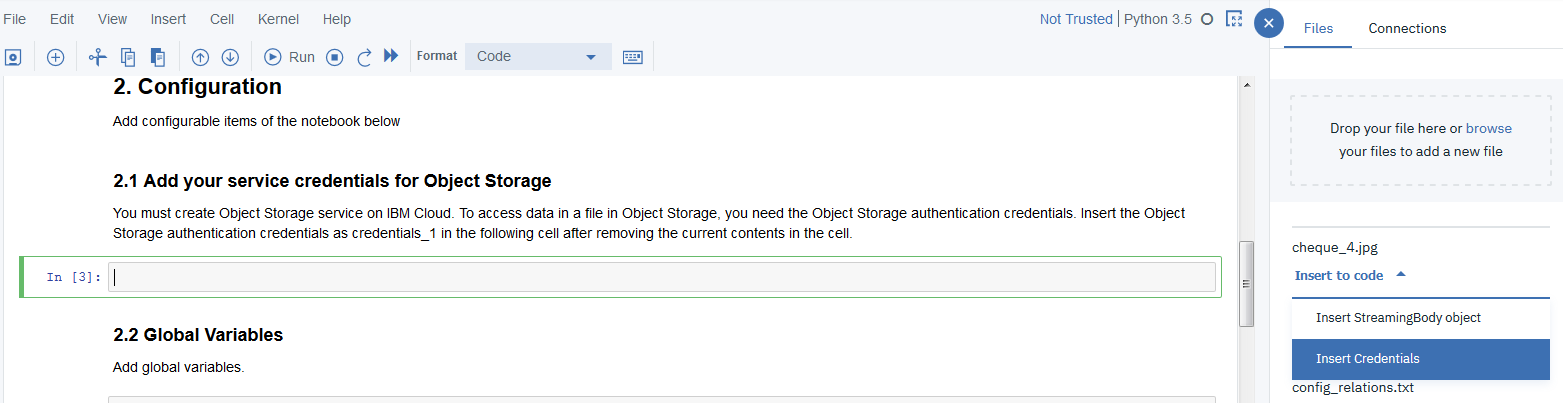
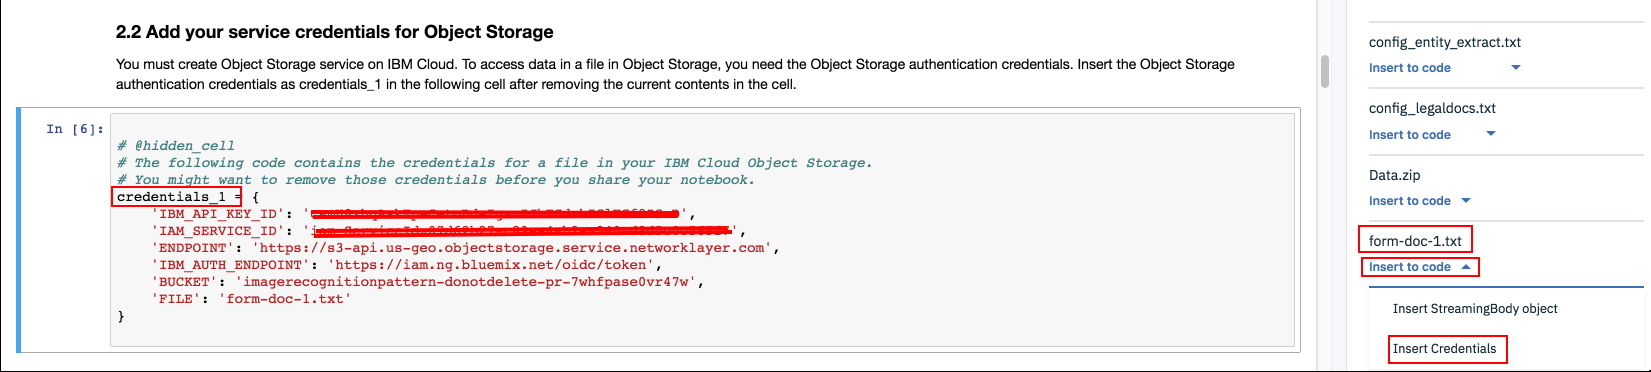
improve documentation

diff --git a/README.md b/README.md
@@ -65,13 +65,13 @@ Classify images using [Image Classification Using CNN and Keras](https://github.
 
 ## 3. Text Extraction Using Optical Character Recognition
 
-[Previous section](#2-classification-of-image-documents) identified application form document among the list of all image documents. This section extracts text from the application form document that was identified in the above section. The text is then saved as text document on to Object Storage.
+[Previous section](#2-classification-of-image-documents) identified application form document among the list of all image documents. This section extracts text from the application form document that was identified in the above section. The text is then saved as text document on to Object Storage, that was created in [Part1](https://github.com/IBM/image-classification-using-cnn-and-keras) of this code pattern.
 
 We will use tesseract OCR for text extraction. We need to install tesseract engine on our local machine. And so we will run the next notebook on local.  
 * [Install Tesseract OCR](https://github.com/tesseract-ocr/tesseract/wiki). Follow the instructions according to your system specifications
 * To run the notebook locally, we will install Jupyter notebook on local. Refer [this link](http://jupyter.readthedocs.io/en/latest/install.html) for Jupyter installation instructions
 * Download `Convert_Image_to_Text.ipynb` from repo https://github.com/IBM/image-recognition-and-information-extraction-from-image-documents/blob/master/notebooks/ and open it in Jupyter notebook on local machine
-* In the notebook, under section 2.1, update the path of the form document. The form document was identified by the previous notebook run.
+* In the notebook, under section 2.1, update the path of the form document. The form document was identified by the [step](#2-classification-of-image-documents).
 
 ![](images/analyze_res1.png)
 
@@ -84,12 +84,23 @@ Update the path of `credentials.json` file in `2.2 Connect to Object Storage` of
 
 Run the notebook by clicking on `Cell`>`Run all` in the menu bar.
 
-* The output of this section will be text content of image document, which will be saved to Object Storage as `form-doc-x.txt`, where x is the nth document. e,g, if it's first form document the file is stored as `form-doc-1.txt`. This file will be used later by another notebook to extract information from text extracted.
+* The output of this section will be text content of image document, which will be saved to Object Storage as `form-doc-x.txt`, where x is the nth document. e,g, if it's first form document the file is stored as `form-doc-1.txt`. This file will be used later by another notebook to extract information from text extracted. A sample text file is provided [here](https://github.com/IBM/image-recognition-and-information-extraction-from-image-documents/tree/master/Configuration/form-doc-1.txt)
 
 
 ## 4. Entity Extraction and Document Classification
 
-### 4.1 Create IBM Cloud services
+## 4.1 Add the extracted text file to Watson Studio
+In [Part1](https://github.com/IBM/image-classification-using-cnn-and-keras) of this code pattern we created Watson Studio service instance.
+* Go to that service instance from IBM Cloud Dashboard and click on `Assets` tab.
+* Click on 10/01 icon on the top right side of the screen.
+* Click on `files` tab under it.
+* Select `form-doc-1.txt`.
+* Click on `Add as data set` as shown in the below image and apply the changes.
+
+![](images/load_text_file.png)
+
+
+### 4.2 Create IBM Cloud services
 
 Create the following IBM Cloud service and give a unique name for the service:
 
@@ -97,8 +108,7 @@ Create the following IBM Cloud service and give a unique name for the service:
 
 ![](images/bluemix_service_nlu.png)
 
-
-### 4.2 Create notebook
+### 4.3 Create notebook
 
 Login to [IBM Cloud Dashboard](http://console.bluemix.net/). Click on the Watson Studio instance that was created earlier. Click `Get Started` button at the bottom of the page.
 
@@ -111,18 +121,16 @@ Login to [IBM Cloud Dashboard](http://console.bluemix.net/). Click on the Watson
 * Under Runtime select Default Python with 1 CPU and 4GB RAM
 * Click the `Create` button.
 
-![](images/create_notebook_from_url.png)
 
-
-### 4.3 Upload text data and configuration data to Object Storage
+### 4.4 Upload text data and configuration data to Object Storage
 
 There are two configuration files
 
-#### 4.3.1 Entities Config
+#### 4.4.1 Entities Config
 Check the file https://github.com/IBM/image-recognition-and-information-extraction-from-image-documents/blob/master/Configuration/config_entity_extract.txt. This file contains regular expressions and chunking patterns which are used to identify entities and their values from the text of the form document.
 The configuration json file controls the way the text is classified. The classification process is divided into stages - Base Tagging and Domain Tagging. The Base Tagging stage can be used to specify keywords based classification, regular expression based classification, and tagging based on chunking expressions. The Domain Tagging stage can be used to specify classification that is specific to the domain, in order to augment the results from Watson Natural Language.
 
-#### 4.3.2 Document Type config
+#### 4.4.2 Document Type config
 Check the file https://github.com/IBM/image-recognition-and-information-extraction-from-image-documents/blob/master/Configuration/config_legaldocs.txt. This file contains information to identify the type of the document. It specifies what all entities should be available in a document to categorise the document to a particular type. E.g. A document can be a rental agreement document if it has entities `Leaser Term`, `Rent`, `Security Deposit`.
 
 * Download `config_entity_extract.txt` and `config_legaldocs.txt` from the repo https://github.com/IBM/image-recognition-and-information-extraction-from-image-documents/tree/master/Configuration
@@ -135,17 +143,16 @@ If you use your own data and configuration files, you will need to update the va
 To open the notebook, click on the edit icon to start editing the notebook on your project.
 
 In the notebook, update the global variables in the cell following
-
-2.3 Global Variables section.
+`2.3 Global Variables section`.
 
 Enter the filenames of the text file obtained as a result of `Text Extraction Using Optical Character Recognition` as well as the configuration files uploaded into Object Storage.
 
 ![](images/global_variables_entity.png)
 
-### 4.4 Create Watson Natural Language Understanding (NLU) service
+### 4.5 Create Watson Natural Language Understanding (NLU) service
 Create [Watson NLU](https://console.bluemix.net/catalog/services/natural-language-understanding) service instance if not already available
 
-### 4.5 Add Watson NLU credentials to notebook
+### 4.6 Add Watson NLU credentials to notebook
 Get Watson NLU service credentials:
 * On your IBM Cloud Dashboard, click on Watson NLU service instance. On the left hand navigation bar click `Service Credentials`
 * If you see `View Credentials` under `Service Credentials` then click on the down arrow mark beside `View Credentials`. Make of note of the credentials.
@@ -155,7 +162,7 @@ Select the cell below `2.1 Add your service credentials from IBM Cloud for the W
 
 ![](images/watson_nlu_credentials.png)
 
-### 4.6 Add Object Storage credentials to notebook
+### 4.7 Add Object Storage credentials to notebook
 * Select the cell below `2.2 Add your service credentials for Object Storage` section in the notebook to update the credentials for Object Store.
 * Delete the contents of the cell
 * Use `Find and Add Data` (look for the `10/01` icon) and its `Files` tab. You should see the file names uploaded earlier. Make sure your active cell is the empty one below `2.2 Add...`
